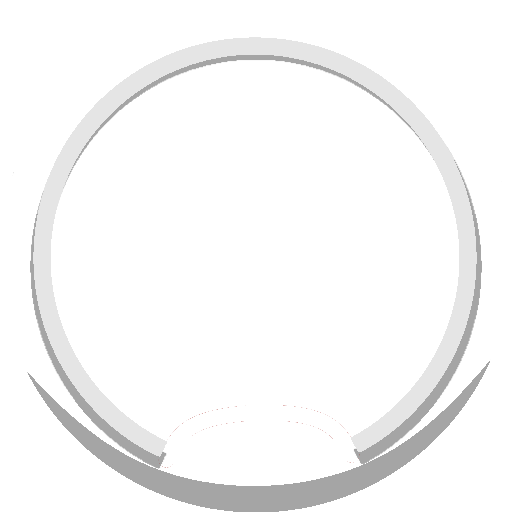
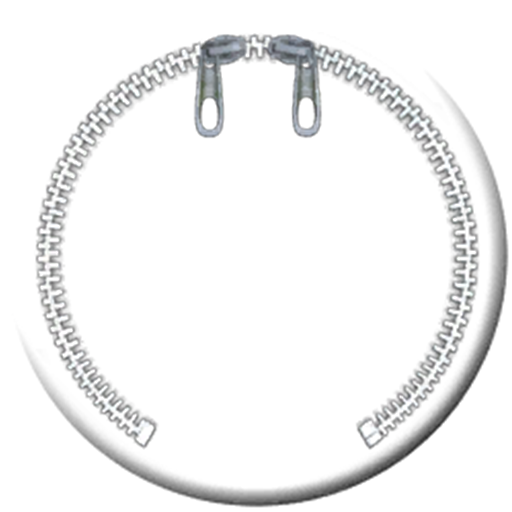
Added Overlay same used Ingame

Changed region(s): [[0.0312, 0.0625, 1.0, 1.0]]

diff --git a/README.md b/README.md
@@ -1,3 +1,5 @@
+#Some assets are owned by SIE
+
 # This is my fork of Project Lighthouse
 I made a few minor changes to the website to include the link to this fork, aswell as credits of the Project Lighthouse Team. and mention of Admins of this instance, so you can have an account made for you, which is needed to connect to the server, 403 error is normal first time, check the authentication page on the website http://fridinator.fo:10060 if your Public IP is shown as an authentication attempt, whitelist it by accepting the request, then restart your game, and it should connect correctly.
 
